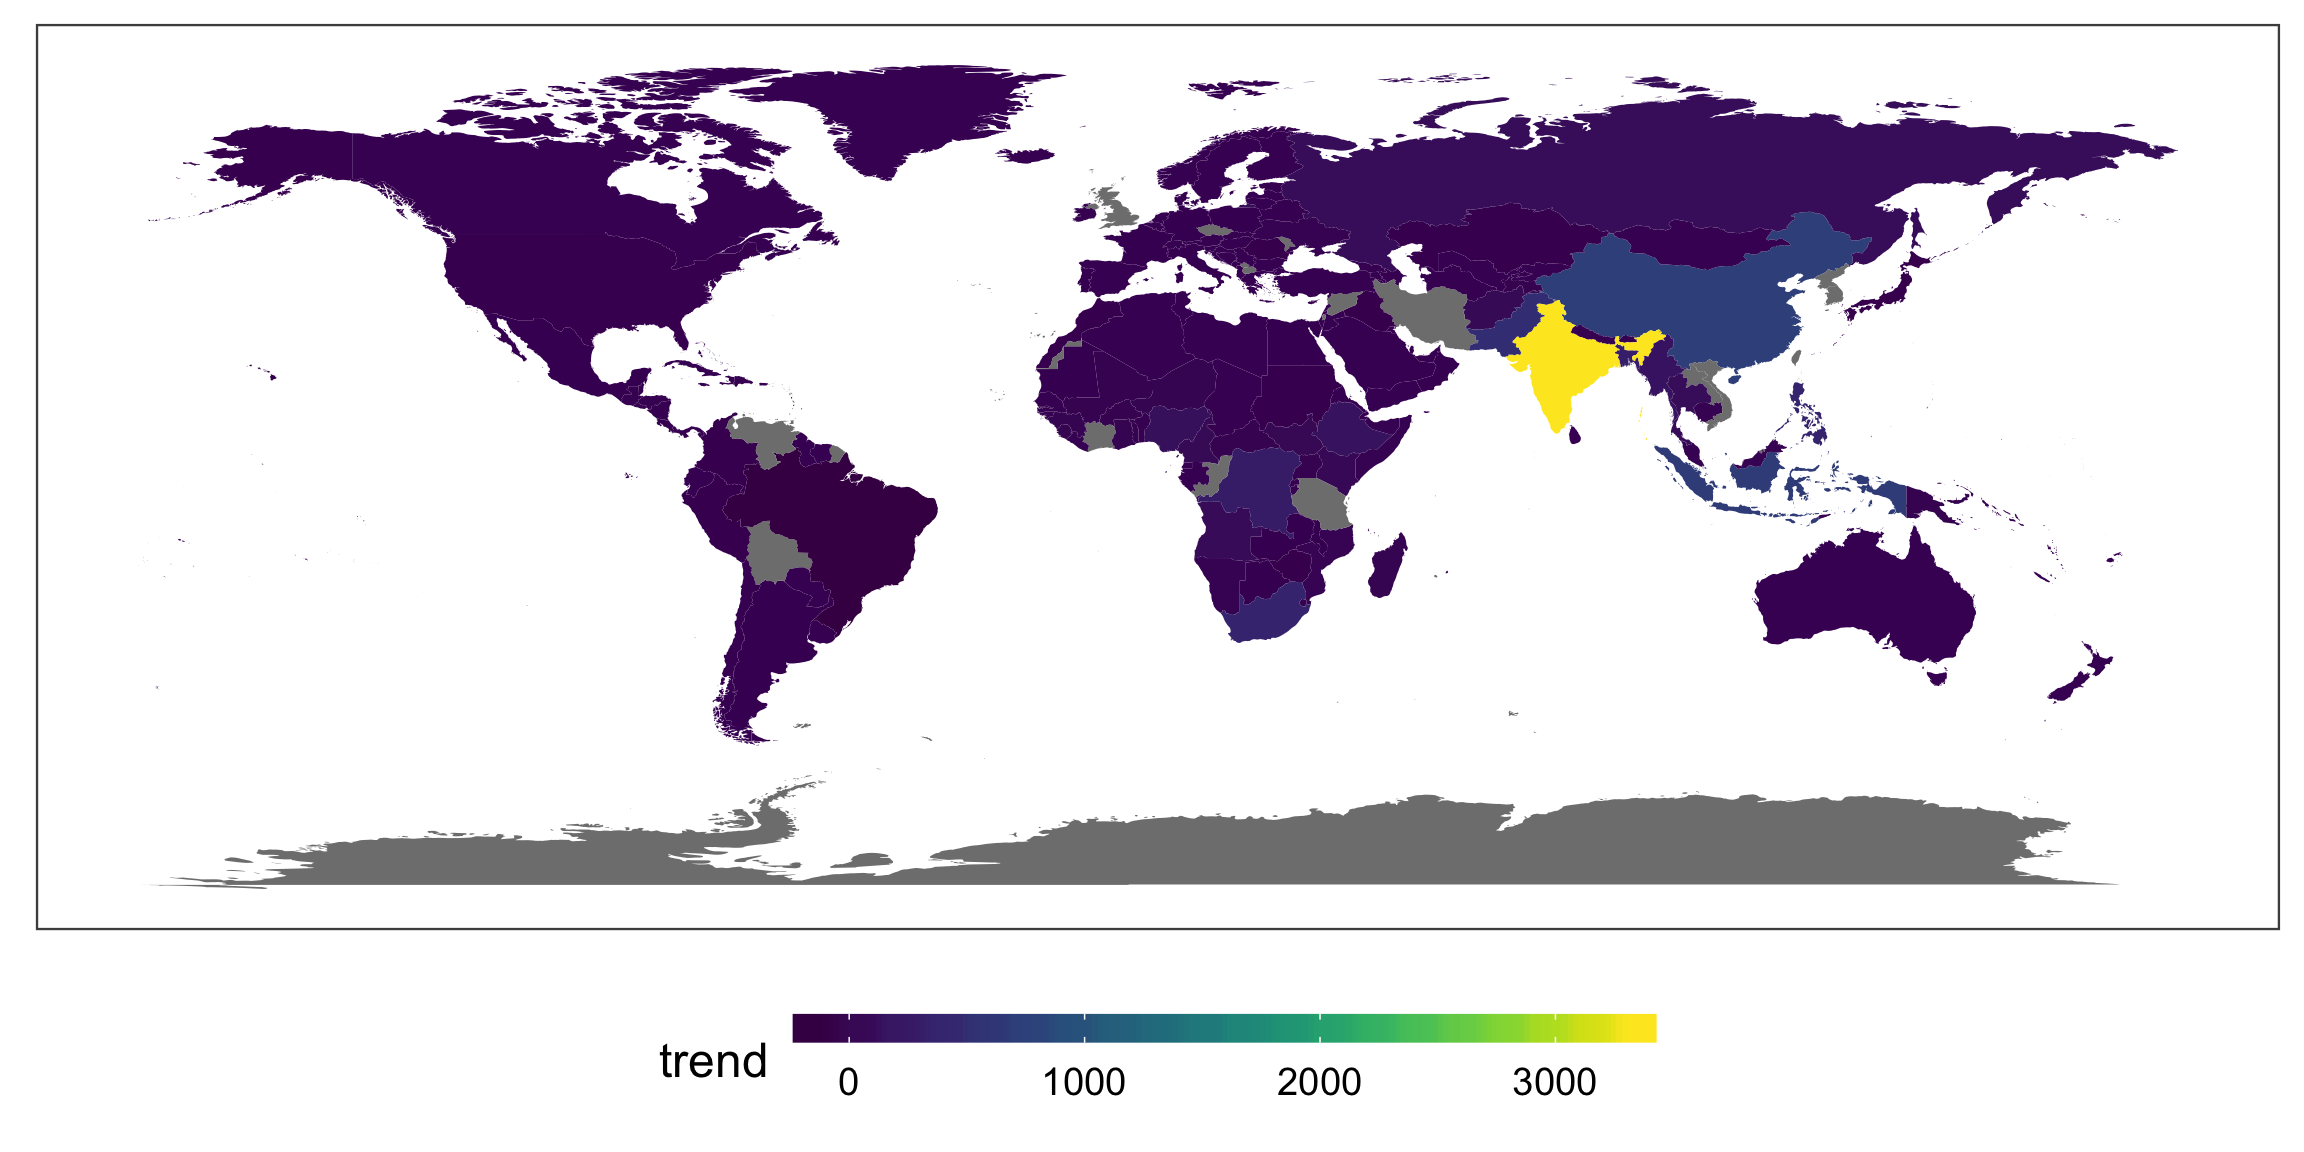
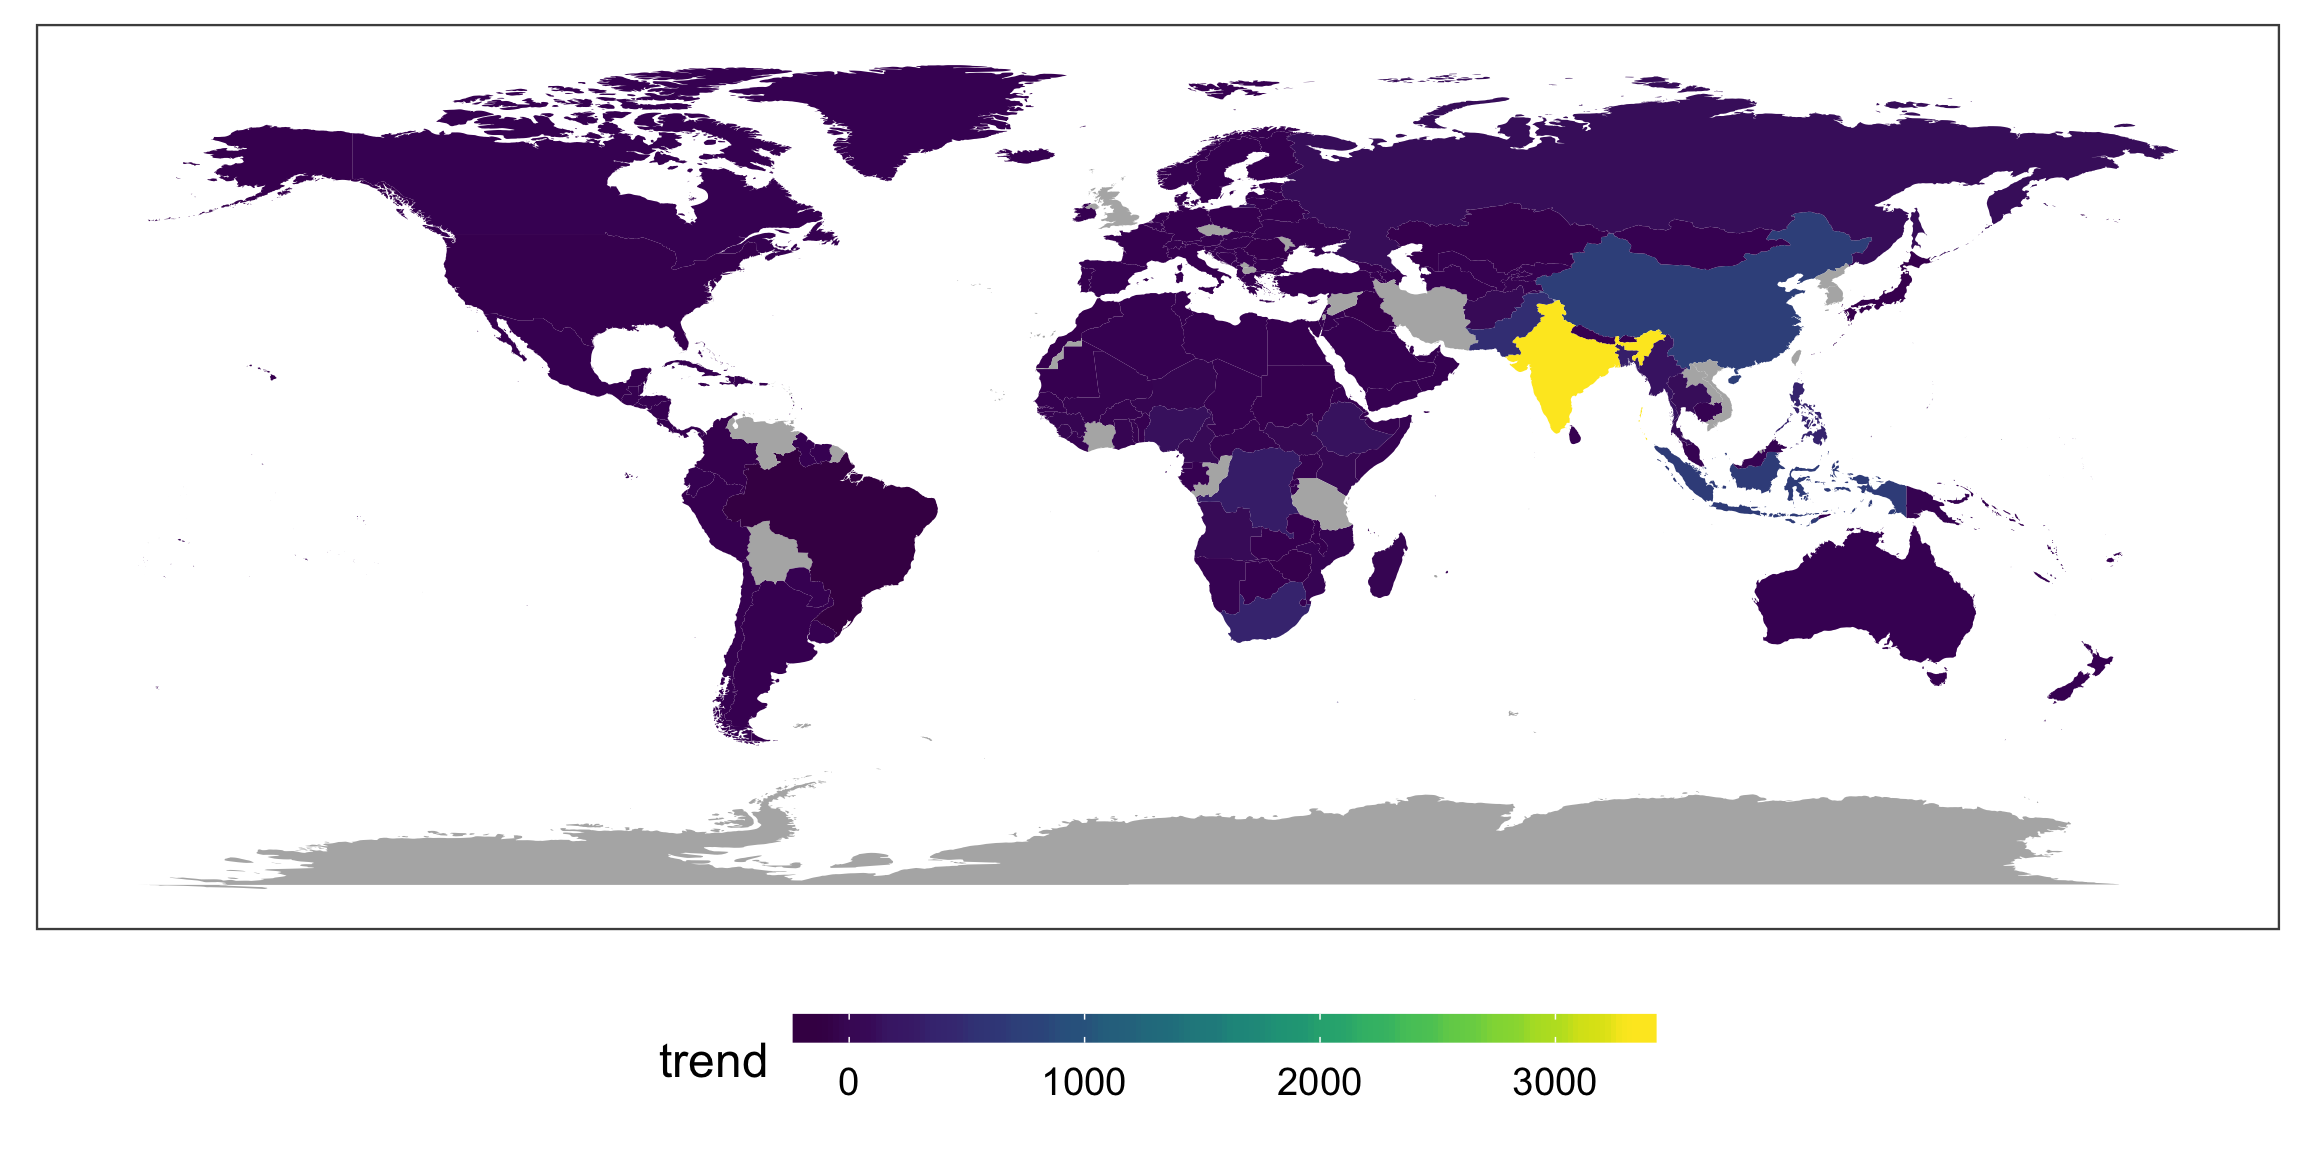
added animation to advanced plots

diff --git a/2.3-adv-graphics/index.html b/2.3-adv-graphics/index.html
@@ -127,7 +127,6 @@ tbl
 p &lt;- tbl$count[1]/sum(tbl$count)
 
 pos = sample(1:3, 1)
-pos = sample(1:3, 1)
 l &lt;- lineup(null_dist(var="gender01", dist="binom", 
                       list(size=1, p=p)), 
             true=tb_us_long, n=3, pos=pos)
@@ -174,7 +173,7 @@ For `\(x=4, K=17, m=20\)`
 
 ```
      x simulated       binom
-[1,] 4    0.0206 0.008800605
+[1,] 4    0.0227 0.008800605
 ```
 
 ---
@@ -257,6 +256,7 @@ A polygon map of the world is extracted from the maps package. *The names of cou
 
 ```r
 world_map &lt;- map_data("world")
+usa &lt;- map_data("usa")
 tb_names &lt;- tb %&gt;% 
   mutate(region=recode(country, 
                        "United States of America"="USA", 
@@ -288,7 +288,7 @@ One way to make the map is use `geom_map`, and link this dynamically with the TB
 
 ```r
 ggplot(tb_names_inc, aes(map_id = region)) + 
-    geom_map(aes(fill=year), map = world_map, color="grey70", size=0.3) + 
+    geom_map(aes(fill=year), map = world_map, color="grey70", size=0.3, na.rm=TRUE) + 
     expand_limits(x = world_map$long, y = world_map$lat) +
     theme_few() +
     scale_fill_viridis("trend") + 
@@ -312,12 +312,12 @@ tb_map &lt;- left_join(world_map, tb_names_inc, by="region")
 ggplot(tb_map) + 
   geom_polygon(aes(x=long, y=lat, group=group, fill=year)) +
       theme_few() +
-    scale_fill_viridis("trend") + 
+    scale_fill_viridis("trend", na.value = "grey70") + 
     theme(legend.position = "bottom",
          axis.ticks = element_blank(), 
          axis.title = element_blank(), 
          axis.text =  element_blank()) +
-    guides(fill = guide_colorbar(barwidth = 15, barheight = .5))
+    guides(fill = guide_colorbar(barwidth = 15, barheight = .5)) 
 ```
 
 &lt;img src="index_files/figure-html/unnamed-chunk-16-1.png" width="576" style="display: block; margin: auto;" /&gt;
@@ -328,6 +328,50 @@ class: inverse middle
 
 Why is India showing a drastically increasing TB incidence. 
 Make the plot of TB incidence for India. 
+
+---
+
+
+```r
+tb_india &lt;- tb %&gt;% 
+  filter(country == "India") %&gt;%
+  filter(!(age %in% c("04", "014", "514", "u"))) %&gt;%
+  filter(year &gt; 1996, year &lt; 2013) %&gt;%
+  group_by(year, country) %&gt;%
+  summarise(count = sum(count, na.rm=TRUE)) 
+india_map &lt;- world_map %&gt;% filter(region == "India")
+tb_map_india &lt;- left_join(india_map, tb_india,
+                          by=c("region"="country")) %&gt;%
+  filter(group == 839)
+```
+
+---
+
+&lt;img src="index_files/figure-html/unnamed-chunk-18-1.png" width="576" style="display: block; margin: auto;" /&gt;
+
+---
+# Animate
+
+
+```r
+p &lt;- ggplot(tb_map_india) + 
+  geom_polygon(aes(x=long, y=lat, group=group, 
+  fill=count, label=region, frame=year)) +
+      theme_few() +
+    scale_fill_viridis("trend", na.value = "grey70", 
+                       limits=c(0,630000)) + 
+    theme(legend.position = "bottom",
+         axis.ticks = element_blank(), 
+         axis.title = element_blank(), 
+         axis.text =  element_blank()) +
+    guides(fill = guide_colorbar(barwidth = 15, barheight = .5)) 
+```
+
+
+```r
+ggplotly(p)
+```
+
 
 ---
 # Resources
